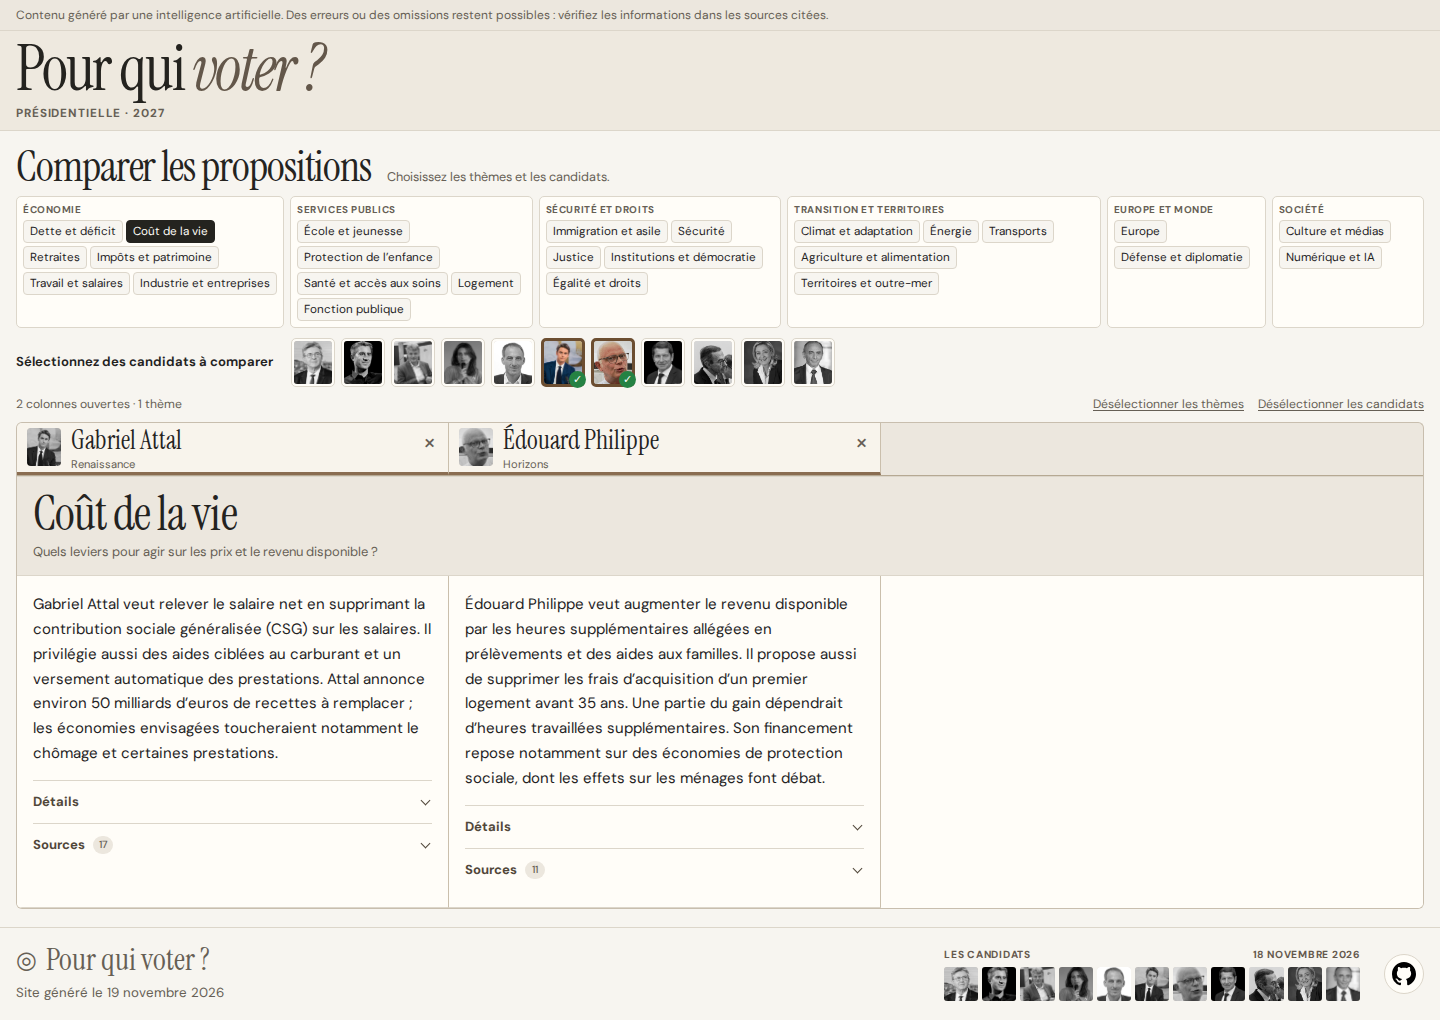
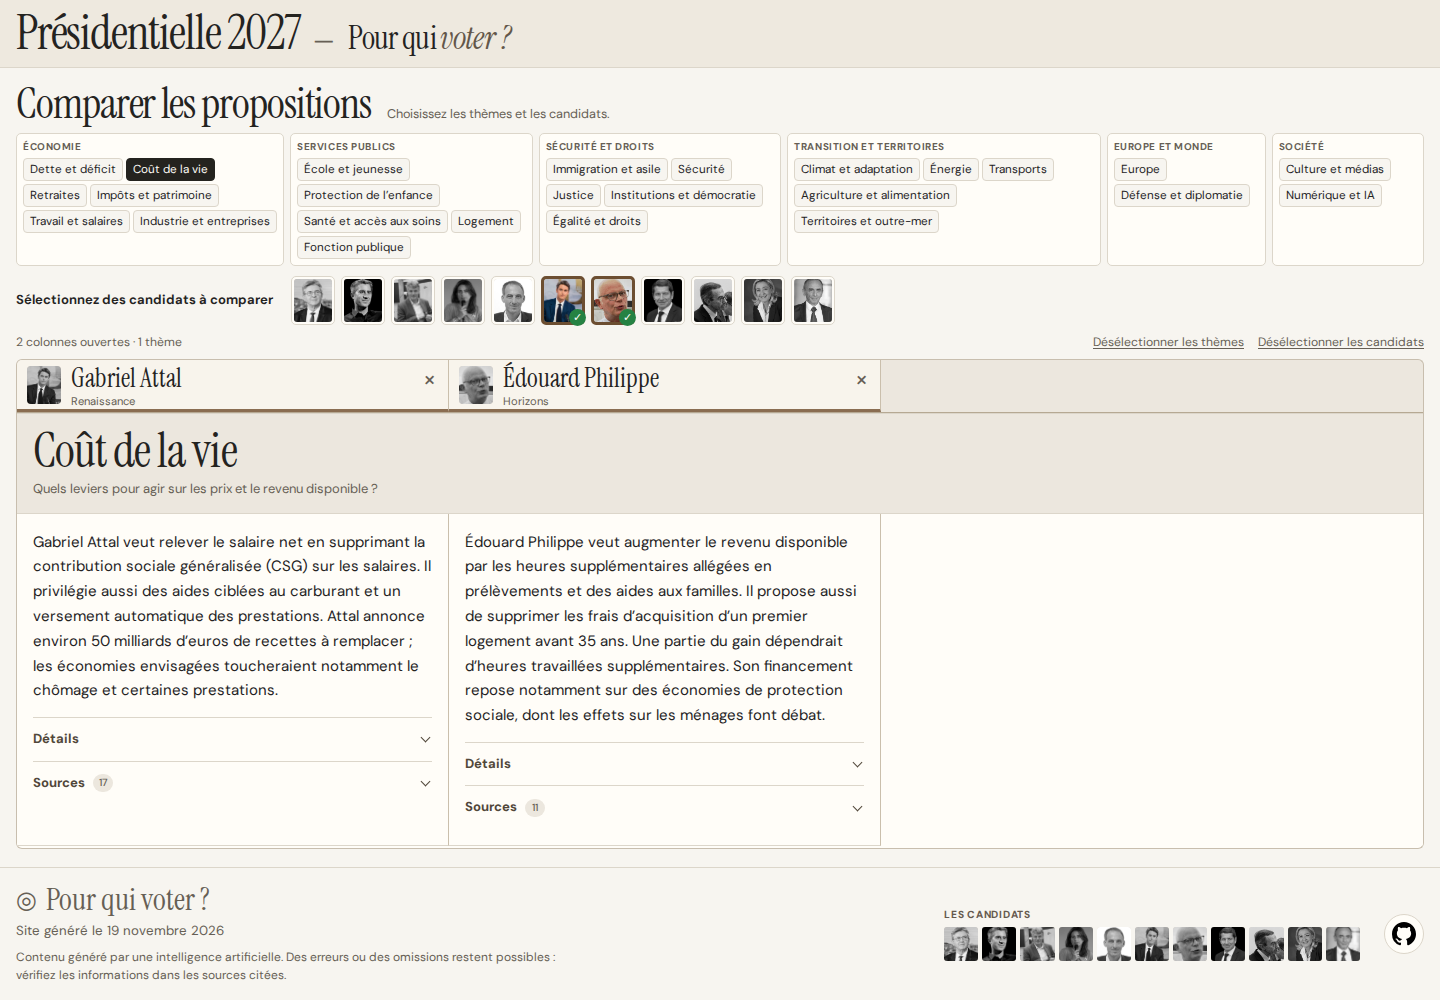
Compacter le header et déplacer l’avertissement IA dans le footer

diff --git a/web/assets/style.css b/web/assets/style.css
@@ -16,16 +16,18 @@ p,h1,h2,h3,h4,h5{margin:0}
 .wrap{width:min(1320px,100% - 104px);margin-inline:auto}
 .skip{position:fixed;top:12px;left:12px;z-index:10;background:white;padding:12px;translate:0 -150%}
 .skip:focus{translate:0}
-.content-notice{padding-block:6px;border-bottom:1px solid var(--line);background:var(--soft);color:var(--muted);font-size:.75rem;line-height:1.5}
 .top{border-bottom:1px solid var(--line)}
 .nav,.foot{min-height:72px;display:flex;align-items:center;justify-content:space-between;gap:20px}
 .brand{font-family:var(--serif);font-size:31px;text-decoration:none;white-space:nowrap;display:inline-flex;align-items:center;gap:9px;line-height:1}
 .brand-mark{font:24px/1 var(--sans)}
 .back-link{font-size:.85rem;font-weight:650}
 .hero{background:var(--hero);border-bottom:1px solid var(--line)}
-.hero-layout{display:flex;align-items:center;justify-content:space-between;gap:10px 32px;padding-block:8px}
-.eyebrow,.edition-top,.evidence{font-size:.73rem;font-weight:700;letter-spacing:.075em;text-transform:uppercase}
-.eyebrow{color:var(--muted);margin-top:3px}
+.hero-layout{display:flex;align-items:center;padding-block:8px}
+.hero .election-title{display:flex;align-items:baseline;gap:0 14px;font-size:clamp(26px,3.3vw,48px);line-height:1.08;letter-spacing:-.025em}
+.election-year,.site-title{white-space:nowrap}
+.site-title{font-size:.68em;letter-spacing:-.02em}
+.title-divider{font-family:var(--sans);font-size:.52em;color:var(--muted)}
+.edition-top,.evidence{font-size:.73rem;font-weight:700;letter-spacing:.075em;text-transform:uppercase}
 h1,h2,.theme-heading h3{font-family:var(--serif);font-weight:400;line-height:.98}
 h1{font-size:clamp(42px,4.5vw,63px);letter-spacing:-.035em}
 h1 em{font-weight:400;color:#63574a}
@@ -133,7 +135,8 @@ h1 em{font-weight:400;color:#63574a}
 .profile .position-sources{margin-top:18px}
 footer{border-top:1px solid var(--line);color:var(--muted);font-size:.83rem}
 .footer-layout{display:grid;grid-template-columns:minmax(0,1fr) minmax(0,416px) auto;align-items:center;gap:24px;padding-block:16px}
-.footer-meta{display:grid;justify-items:start;gap:8px}
+.footer-meta{display:grid;justify-items:start;gap:6px}
+.footer-notice{max-width:72ch;font-size:.75rem;line-height:1.5}
 .footer-profiles{width:100%}
 @media(max-width:760px){
   .footer-layout{grid-template-columns:minmax(0,1fr) auto;gap:16px}
@@ -150,7 +153,6 @@ footer{border-top:1px solid var(--line);color:var(--muted);font-size:.83rem}
 }
 @media(max-width:760px){
   .wide{width:calc(100% - 20px)}
-  .hero-layout{gap:8px 20px;flex-wrap:wrap;padding-block:8px}
   .edition{width:min(100%,380px)}
   .compare-section{--open-track:clamp(242px,calc(100vw - 48px),330px);padding-block:10px 16px}
 }
@@ -158,9 +160,7 @@ footer{border-top:1px solid var(--line);color:var(--muted);font-size:.83rem}
   .nav,.foot{min-height:50px;gap:10px}
   .brand{font-size:24px;gap:4px}
   .brand-mark{font-size:18px}
-  .hero-layout>div{display:flex;align-items:baseline;flex-wrap:wrap;gap:3px 9px}
-  .hero h1{font-size:clamp(32px,9.5vw,37px)}
-  .eyebrow{font-size:.59rem}
+  .hero .election-title{font-size:clamp(22px,6.5vw,30px);gap:0 8px}
   .edition-top{font-size:.58rem}
   .section-head p{display:none}
   .theme-options button{padding-block:5px}

diff --git a/web/index.html b/web/index.html
@@ -13,14 +13,10 @@
 </head>
 <body style="--candidate-count:{{candidate_count}}">
   <a class="skip" href="#contenu">Aller au contenu</a>
-  <aside class="content-notice" aria-label="Information sur le contenu"><p class="wide">Contenu généré par une intelligence artificielle. Des erreurs ou des omissions restent possibles : vérifiez les informations dans les sources citées.</p></aside>
   <main id="contenu">
     <header class="hero">
       <div class="wide hero-layout">
-        <div>
-          <h1>Pour qui <em>voter&nbsp;?</em></h1>
-          <p class="eyebrow">Présidentielle · 2027</p>
-        </div>
+        <h1 class="election-title"><span class="election-year">Présidentielle 2027</span> <span class="title-divider" aria-hidden="true">—</span> <span class="site-title">Pour qui <em>voter&nbsp;?</em></span></h1>
       </div>
     </header>
     <section class="wide compare-section" id="comparer" aria-labelledby="compare-title">
@@ -53,9 +49,10 @@
       <div class="footer-meta">
         <a class="brand" href="#contenu"><span class="brand-mark" aria-hidden="true">◎</span> Pour qui voter&nbsp;?</a>
         <span>Site généré le {{generated}}</span>
+        <p class="footer-notice">Contenu généré par une intelligence artificielle. Des erreurs ou des omissions restent possibles : vérifiez les informations dans les sources citées.</p>
       </div>
       <nav class="edition footer-profiles" aria-label="Fiches des candidats">
-        <div class="edition-top"><span>Les candidats</span>{{snapshot}}</div>
+        <div class="edition-top"><span>Les candidats</span></div>
         <div class="portrait-grid">{{timeline}}</div>
       </nav>
       <a class="github-link" href="https://github.com/adrienconrath/pourquivoter" aria-label="Voir le dépôt du site sur GitHub" title="Voir le dépôt sur GitHub"><img src="assets/github.svg" width="24" height="24" alt="GitHub"></a>

diff --git a/web/profile.html b/web/profile.html
@@ -11,7 +11,6 @@
 </head>
 <body class="profile-page">
   <a class="skip" href="#contenu">Aller au contenu</a>
-  <aside class="content-notice" aria-label="Information sur le contenu"><p class="wide">Contenu généré par une intelligence artificielle. Des erreurs ou des omissions restent possibles : vérifiez les informations dans les sources citées.</p></aside>
   <header class="top"><div class="wrap nav">
     <a class="brand" href="../"><span class="brand-mark" aria-hidden="true">◎</span> Pour qui voter&nbsp;?</a>
     <a class="back-link" href="../#comparer">← Comparateur</a>
@@ -19,6 +18,6 @@
   <main class="wrap profile-main" id="contenu">
     {{profile}}
   </main>
-  <footer><div class="wrap foot"><span>Site généré le {{generated}}</span><a class="github-link" href="https://github.com/adrienconrath/pourquivoter" aria-label="Voir le dépôt du site sur GitHub" title="Voir le dépôt sur GitHub"><img src="../assets/github.svg" width="24" height="24" alt="GitHub"></a></div></footer>
+  <footer><div class="wrap foot"><div class="footer-meta"><span>Site généré le {{generated}}</span><p class="footer-notice">Contenu généré par une intelligence artificielle. Des erreurs ou des omissions restent possibles : vérifiez les informations dans les sources citées.</p></div><a class="github-link" href="https://github.com/adrienconrath/pourquivoter" aria-label="Voir le dépôt du site sur GitHub" title="Voir le dépôt sur GitHub"><img src="../assets/github.svg" width="24" height="24" alt="GitHub"></a></div></footer>
 </body>
 </html>
